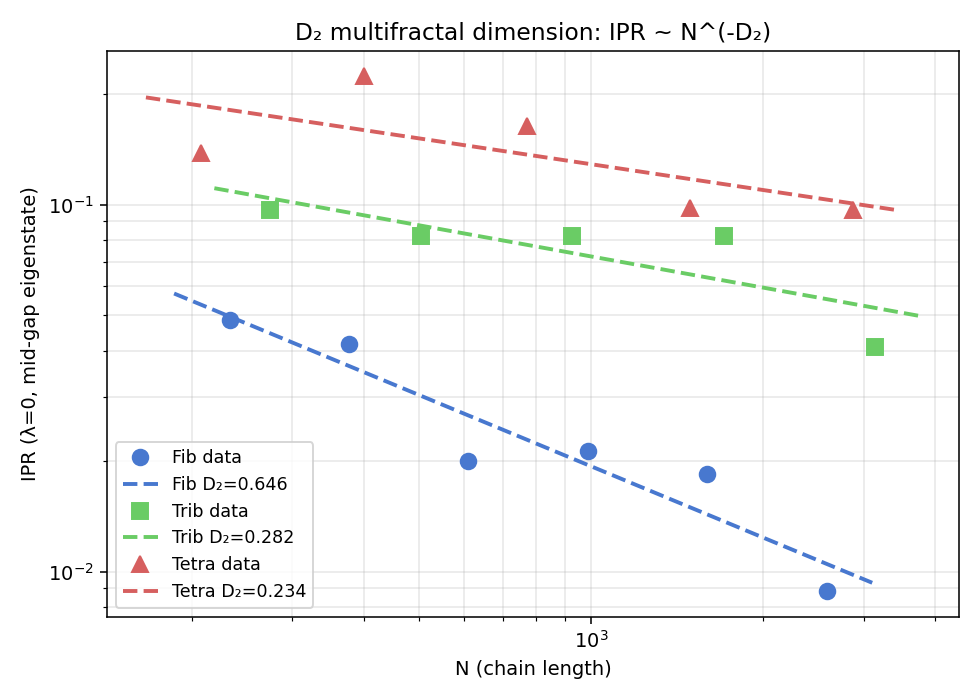
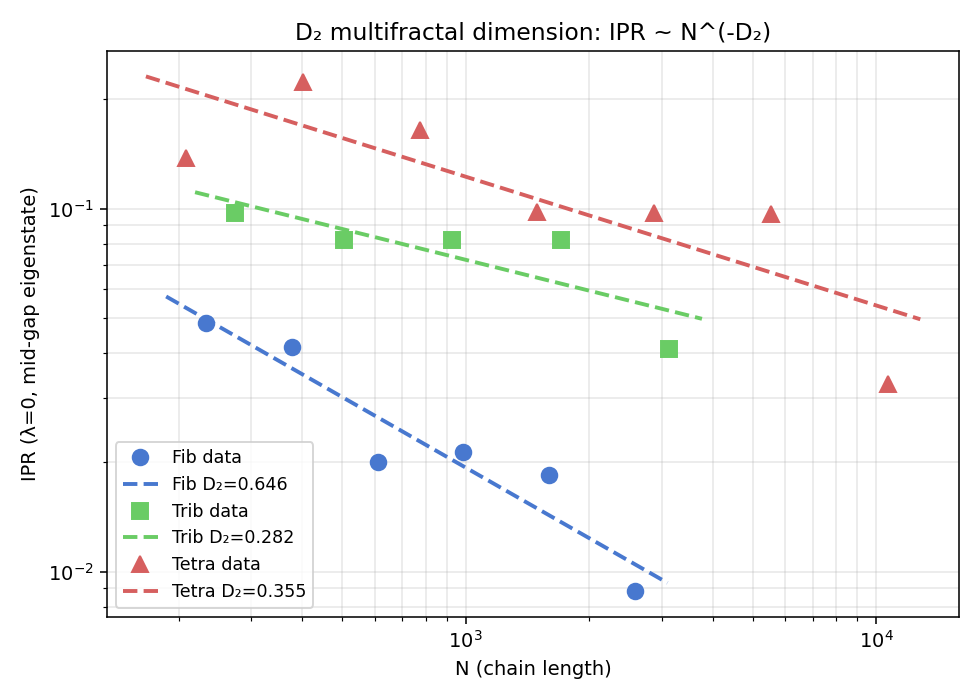
Extend tetrabonacci D₂ fit to n=13 (N=5536) and n=14 (N=10671)
Agent-Logs-Url: https://github.com/grossi-ops/Atratores/sessions/a85b9962-398a-4e7f-92a8-08eb1c46fcc0

diff --git a/dnls_tetrabonacci.py b/dnls_tetrabonacci.py
@@ -491,9 +491,9 @@ def task_d_fss() -> dict:
 # Task E — D₂ from mid-gap IPR at natural lengths, lambda=0
 # ---------------------------------------------------------------------------
 
-# Natural lengths N in {208, 401, 773, 1490, 2872} correspond to iterations 8..12
-NATURAL_ITERS_E = [8, 9, 10, 11, 12]
-NATURAL_LENGTHS_E = [208, 401, 773, 1490, 2872]
+# Natural lengths correspond to iterations 8..14 (OEIS A000078)
+NATURAL_ITERS_E = [8, 9, 10, 11, 12, 13, 14]
+NATURAL_LENGTHS_E = [208, 401, 773, 1490, 2872, 5536, 10671]
 SPREAD_FRAC = 0.03  # spatial spread filter: sigma >= SPREAD_FRAC * N
 
 
